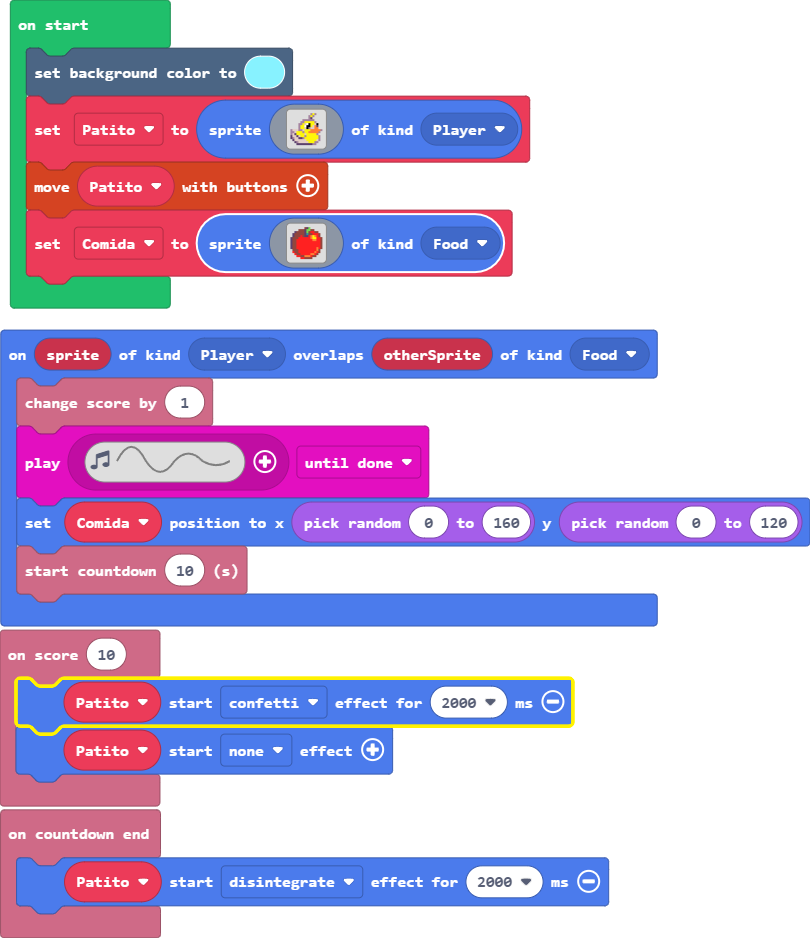
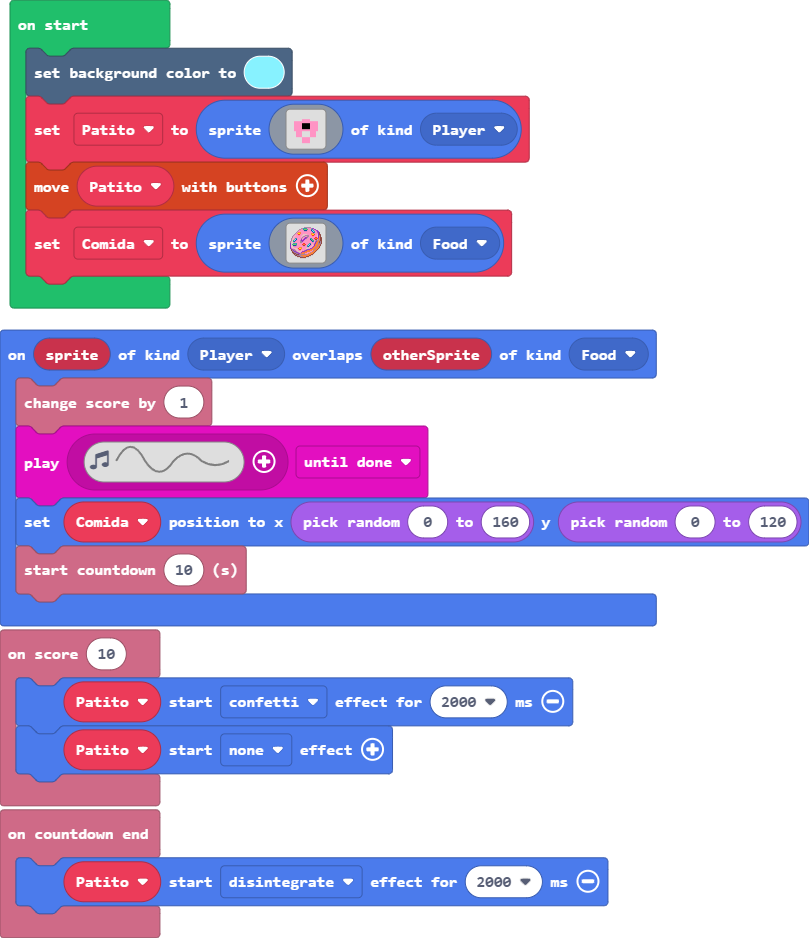
Update main.blocks, main.ts

diff --git a/main.ts b/main.ts
@@ -15,39 +15,55 @@ let Comida: Sprite = null
 let Patito: Sprite = null
 scene.setBackgroundColor(9)
 Patito = sprites.create(img`
-    . . . . . . . . . . b 5 b . . . 
-    . . . . . . . . . b 5 b . . . . 
-    . . . . . . . . . b c . . . . . 
-    . . . . . . b b b b b b . . . . 
-    . . . . . b b 5 5 5 5 5 b . . . 
-    . . . . b b 5 d 1 f 5 5 d f . . 
-    . . . . b 5 5 1 f f 5 d 4 c . . 
-    . . . . b 5 5 d f b d d 4 4 . . 
-    b d d d b b d 5 5 5 4 4 4 4 4 b 
-    b b d 5 5 5 b 5 5 4 4 4 4 4 b . 
-    b d c 5 5 5 5 d 5 5 5 5 5 b . . 
-    c d d c d 5 5 b 5 5 5 5 5 5 b . 
-    c b d d c c b 5 5 5 5 5 5 5 b . 
-    . c d d d d d d 5 5 5 5 5 d b . 
-    . . c b d d d d d 5 5 5 b b . . 
-    . . . c c c c c c c c b b . . . 
+    . . . . . . . . . . . . . . . . 
+    . . . . . . . . . . . . . . . . 
+    . . . . . . . . . . . . . . . . 
+    . . . . . . 3 3 3 3 . . . . . . 
+    . . 3 3 3 3 3 3 3 3 3 3 3 3 . . 
+    . . 3 3 3 3 f f f f 3 3 3 3 . . 
+    . . 3 3 3 3 f f f f 3 3 3 3 . . 
+    . . 3 3 3 3 f f f f 3 3 3 3 . . 
+    . . 3 3 3 3 3 3 3 3 3 3 3 3 . . 
+    . . . 3 3 3 . . . . 3 3 3 . . . 
+    . . . 3 3 3 . . . . 3 3 3 . . . 
+    . . . 3 3 3 . . . . 3 3 3 . . . 
+    . . . . . . 3 3 3 3 . . . . . . 
+    . . . . . . 3 3 3 3 . . . . . . 
+    . . . . . . 3 3 3 3 . . . . . . 
+    . . . . . . . . . . . . . . . . 
     `, SpriteKind.Player)
 controller.moveSprite(Patito)
 Comida = sprites.create(img`
-    . . . . . . . e c 7 . . . . . . 
-    . . . . e e e c 7 7 e e . . . . 
-    . . c e e e e c 7 e 2 2 e e . . 
-    . c e e e e e c 6 e e 2 2 2 e . 
-    . c e e e 2 e c c 2 4 5 4 2 e . 
-    c e e e 2 2 2 2 2 2 4 5 5 2 2 e 
-    c e e 2 2 2 2 2 2 2 2 4 4 2 2 e 
-    c e e 2 2 2 2 2 2 2 2 2 2 2 2 e 
-    c e e 2 2 2 2 2 2 2 2 2 2 2 2 e 
-    c e e 2 2 2 2 2 2 2 2 2 2 2 2 e 
-    c e e 2 2 2 2 2 2 2 2 2 2 4 2 e 
-    . e e e 2 2 2 2 2 2 2 2 2 4 e . 
-    . 2 e e 2 2 2 2 2 2 2 2 4 2 e . 
-    . . 2 e e 2 2 2 2 2 4 4 2 e . . 
-    . . . 2 2 e e 4 4 4 2 e e . . . 
-    . . . . . 2 2 e e e e . . . . . 
+    ..............bbbbbbb...........
+    ...........bb66663333baa........
+    .........bb3367776333663aa......
+    ........b33333888333389633aa....
+    .......b3333333333333389633aa...
+    ......b34443333333333338633bae..
+    .....b3455433333333334443333ae..
+    ....b33322333dddd3333455233daee.
+    ...b3d333333dd3bbbb33322333dabe.
+    ..b3d333333d3bb33bb33333333da4e.
+    ..bd33333333b33aab3333333223a4ee
+    .b3d3663333b33aab33366332442b4ee
+    .bd3b983333a3aa3333387633ee3b4ee
+    .bd6983333baaa333333387633bb4bee
+    b3d6833333bba333333333863ba44ebe
+    bdd3333333bb3333333333333a44bebe
+    add666633333322333366333ba44bbbe
+    ad67776333332442336983d3a444b4e.
+    add888b333333ee3369833d3a44b44e.
+    add333333333333336833d3a444b4e..
+    a3dd3333344433333dddd3a444b44e..
+    ab33ddd325543333dd33aa444b44e...
+    .eabb3dd32233333baaa4444b44e....
+    .ebabb3d333d33baa444443b44e.....
+    ..ebaab3ddd3aaa4444433b44e......
+    ..eebbaab33a44444333b444e.......
+    ...eeebbaab444b333b4444e........
+    ....ebeeebbbbbbbb4444ee.........
+    .....eebbbb44444444ee...........
+    .......eeebbb444eee.............
+    ..........eeeeee................
+    ................................
     `, SpriteKind.Food)
